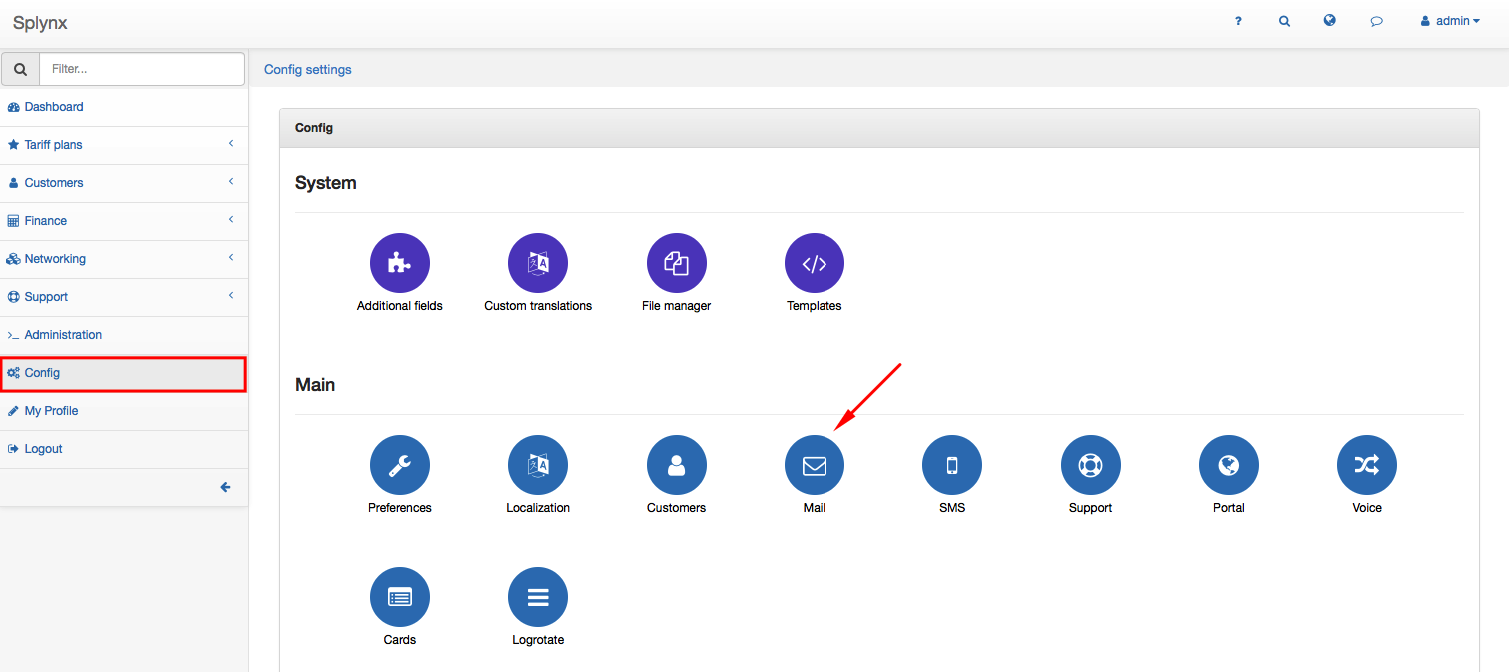
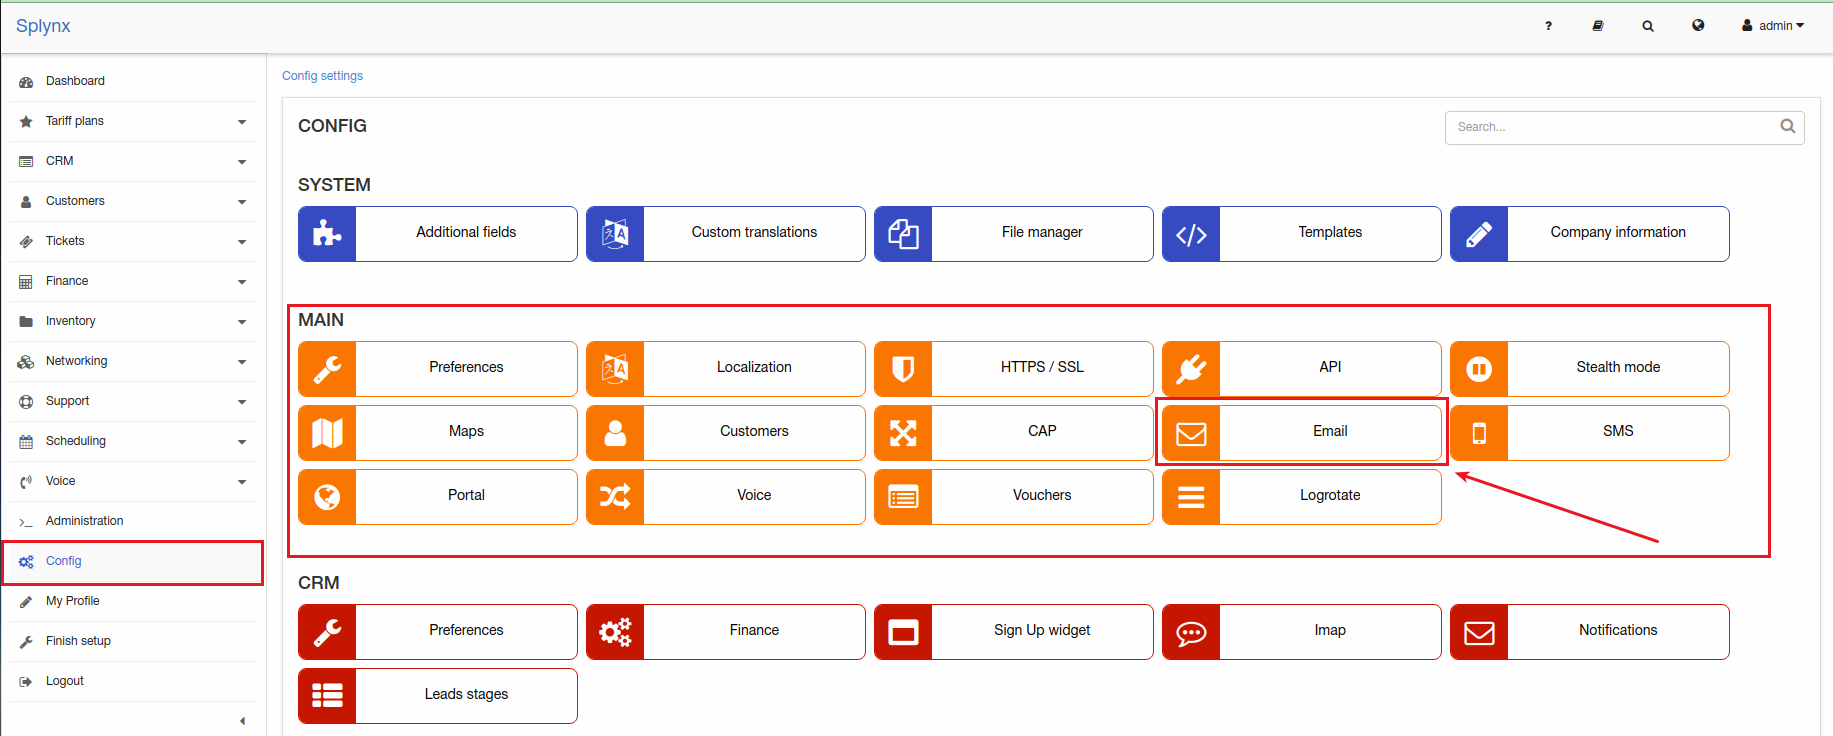
update configuration/main/email

diff --git a/files/configuration/main_configuration/email_config/email_config.md b/files/configuration/main_configuration/email_config/email_config.md
@@ -1,45 +1,58 @@
-Email config
+Email sending configuration
 ============
 
-To configure email sending click on `Config → Main → Mail`.
+To configure email sending navigate to `Config → Main → Email`.
 
 ![](main_menu.png)
 
+For each partner can be configured separate email account for sending mails.
 
-You should set the mail parameters:
+![](per_partner.png)
+
+![](email_address.png)
 
 ## Email address
-* **Sender's name** - name of the sender
-* **Sender's email** - email of the sender
-* **Admin email** - email of the administrator
-* **Enable mail sending** - select on when is desirable to send email from pool
-* **Send to** - If value is set all (!) emails will be send to this address
-* **Copy email** - If value is set copy of all emails will be send to this address(s). You can use many addresses separated by comma
-* **Days to expire** - how many days the server will try to send the email  
+* **Sender's name** - name of the sender;
+* **Sender's email** - email of the sender;
+* **Admin email** - email of the administrator;
+* **Enable email sending** - enable/disable email sending;
+* **Send to** - If set emails will be send ONLY to this address;
+* **Copy email** - If set copy of all emails will be send to this address(s). You can use many addresses separated by comma;
+* **Days to expire** - number of days when sent email will expire. Server will try to send email this amount of days, then mark as "Error" and skip.  
+
+**Email logs can be found under [`Administration - Logs - Email`](../../../administration/logs/email/email.md) or under `Support - Messages - History`**
 
 ## Transport
-* **Transport type** - select sending protocol  
+* **Transport type** - select method of sending. Available options SMTP or sendmail.  
+
+![](smtp.png)
 
 ## SMTP config
-* **Host** - SMTP server name
-* **Port** - SMTP port
-* **Verify SSL certificate** - you can select in on or off with
-* **Encrypted** - select encrypted protocol
-* **Use authentication** - you can use SMTP authentication on or off with
-* **Username** - your username
-* **Password** - your password
-* **Header key** - custom header key
-* **Header value** - custom header value  
+* **Host** - SMTP server name;
+* **Port** - SMTP port;
+* **Verify SSL certificate** - If enabled system will verify SSL certificate of SMTP host;
+* **Encrypted** - select SMTP encryption method;
+* **Use authentication** - enable/disable SMTP authentication;
+* **Username** - your email address for sending mails;
+* **Password** - your password to mail account;
+* **Header key** - custom header key(can be used when additional authentication needed);
+* **Header value** - custom header value(can be used when additional authentication needed);
+* **Additional header(s)** - additional header(can be used when additional authentication needed).  
 
-## Sendmail config
-* **Path** - Path to sendmail
-* **Params** - Params for sendmail  
+![](sendmail.png)
+
+## Sendmail configuration
+* **Path** - Path to sendmail;
+* **Params** - Params for sendmail.
+
+Sendmail configuration example: https://stackoverflow.com/questions/10359437/sendmail-how-to-configure-sendmail-on-ubuntu or https://kenfavors.com/code/how-to-install-and-configure-sendmail-on-ubuntu/
+
+![](test.png)
+
+When sending emails configured it's time to test how it works. Specify your email address to receive test email and click on "Run test", in few minutes email should be received if no errors or successful response after running test.
 
 ## Test
-* **Email**  - Enter email for testing if necessary.
-
-![Email config menu](email_config.png)
-![Email config menu](email_config1.png)
+* **Email**  - email for receiving test message.
 
 We strongly advice to use an Email Delivery Service such as https://www.sparkpost.com/  
 
@@ -59,6 +72,6 @@ Parameter|Value
 **Password** | your password. Google account password
 
 Please note:  
-1. You should allow less secure apps to use your Google account (https://support.google.com/accounts/answer/6010255)
-2. Google limits number of letters per day (https://support.google.com/a/answer/166852?hl=en)
-3. Sometimes Google does not allow to send letters due to security reasons. In this case you should enter into account via browser and confirm that it was you (trying to send email recently)
+1. You should allow less secure apps to use your Google account (https://support.google.com/accounts/answer/6010255);
+2. Google limits number of letters per day (https://support.google.com/a/answer/166852?hl=en);
+3. Sometimes Google does not allow to send letters due to security reasons. In this case you should enter into account via browser and confirm that it was you (trying to send email recently).
